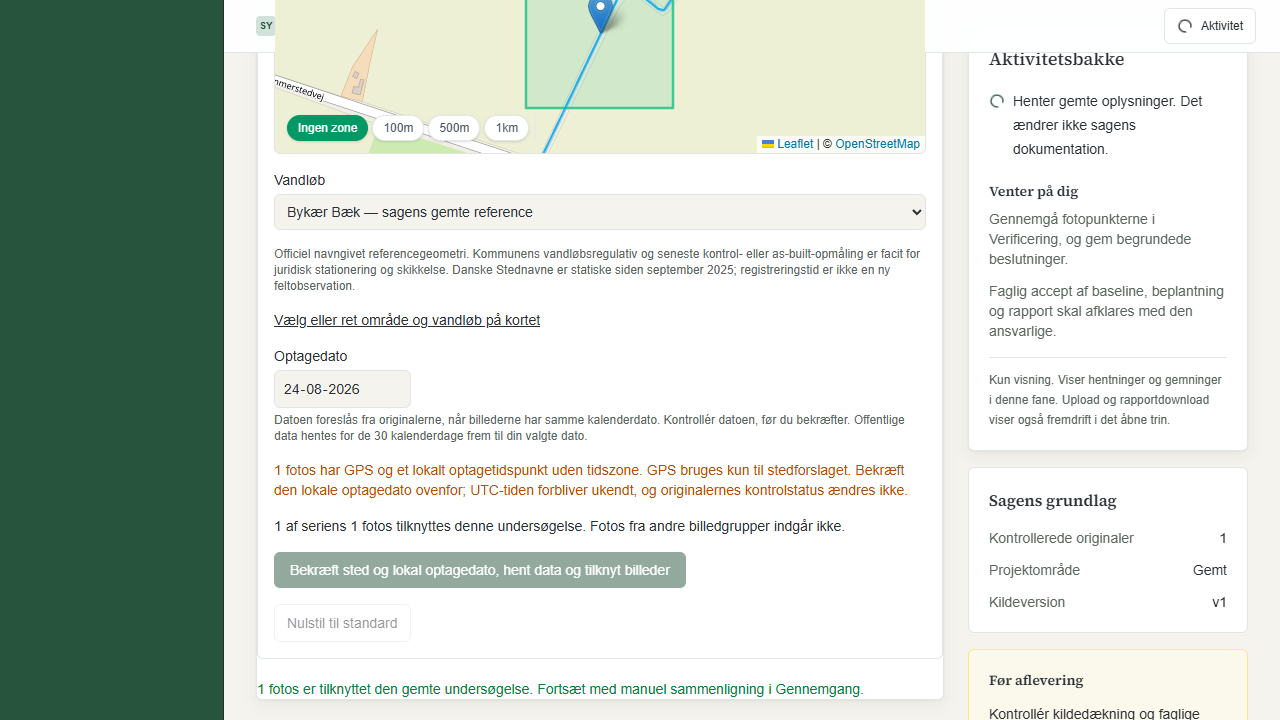
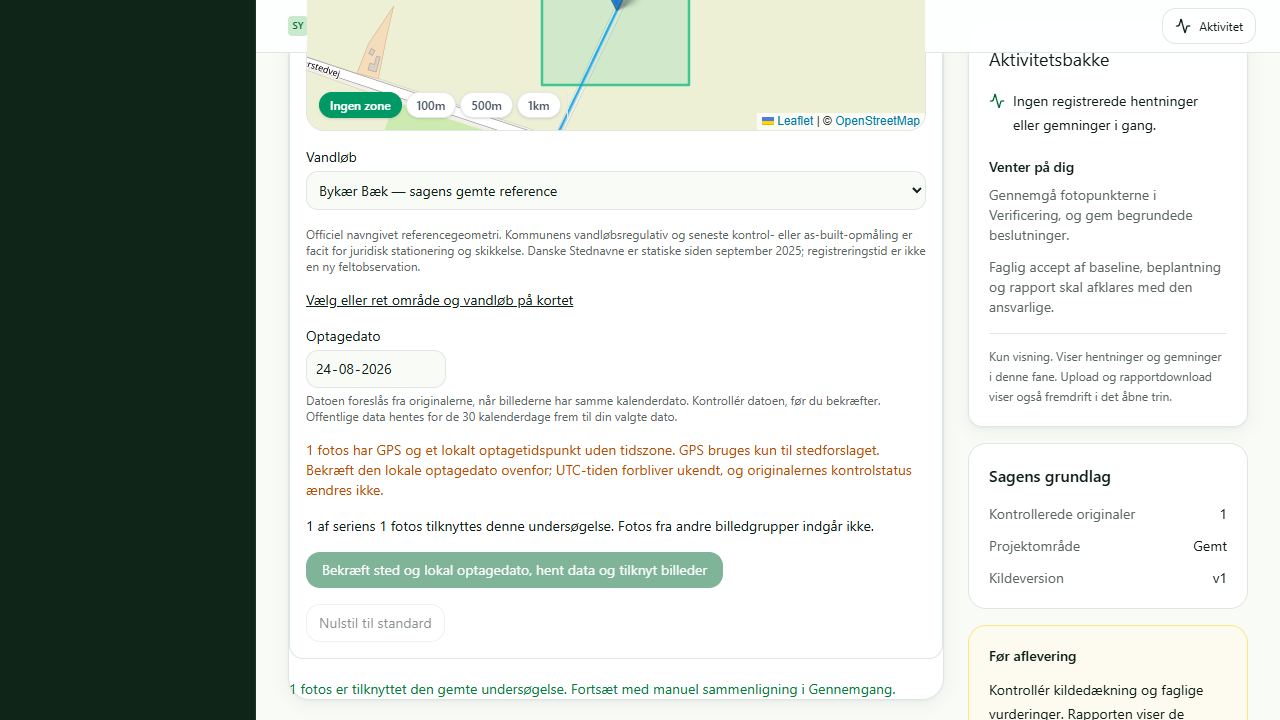
Record complete dashboard and atlas acceptance with release limits

diff --git a/e2e/haderslev-delivery.spec.ts b/e2e/haderslev-delivery.spec.ts
@@ -337,7 +337,10 @@ test("Start en ny sag: standarder, nulstilling, gemning og genåbning", async ({
     "Isoleret teknisk browserprøve. Ingen faglig godkendelse eller kommunal leverance.";
   await dialog.getByLabel("Beskrivelse", { exact: true }).fill(description);
   await dialog.getByRole("button", { name: "Opret projekt", exact: true }).click();
-  await expect(page.getByRole("navigation", { name: "Sagens seks trin" })).toBeVisible();
+  await expect(page.getByRole("button", { name: "Fotoatlas", exact: true })).toBeVisible();
+  await expect(page.getByRole("navigation", { name: "Hovedmenu" }).getByRole("link")).toHaveCount(
+    16,
+  );
   await expect(page.getByRole("heading", { name, exact: true })).toBeVisible();
   await page.reload();
   await expect(page.getByRole("heading", { name, exact: true })).toBeVisible();

diff --git a/docs/REPORT_ATLAS_AUDIT.md b/docs/REPORT_ATLAS_AUDIT.md
@@ -6,34 +6,52 @@ Jesper har bekræftet det tidligere fulde dashboard. Alle 16 hovedmenuhenvisning
 
 Drive-mappen er kontrolleret igen 27.10.2026. Den tidligere reference fra 26.10 er ikke den seneste udgave. Ingen af de private originaler, rapporter eller billeddatasæt lægges i Git.
 
-| Reference | Drive-ID | Senest kontrollerede revision |
-| --- | --- | --- |
-| Hovedrapport | 1BynA_7pBq91XG96qHuCJ1z8sV_1Wv070 | Ændret 27.10 kl. 21:33:56 UTC, 25.376.583 bytes, 26 sider. SHA-256 e0cddc667eb92166ea00a8193c49bc1645e84e94e5559387eb06cbfdfb9b7548. Forside og indholdsside visuelt gennemgået. |
-| Fuld rapport med 274 dronefotos | 18Rap_E6W4P6yL3_bXXZCXCrPjdCQ7Yqk | Ændret 27.10 kl. 12:14:57 UTC, 63.455.221 bytes. Tekst gennemgået. |
-| HTML-fotoatlas | 187z7-urI0CByr86OLX7GHVlreYzesBq0 | Ændret 27.10 kl. 12:15:39 UTC, 51.826.074 bytes. Hele datasættet og illustrationerne indlæst. |
-| Baseline-JSON | 1OBQCM6vc7FPXkWPSu8Dlmil7lMWB5MAw | Ændret 27.10 kl. 12:15:45 UTC, 280.139 bytes. Alle 274 poster sammenholdt med atlasset. |
+| Reference                       | Drive-ID                          | Senest kontrollerede revision                                                                                                                                                    |
+| ------------------------------- | --------------------------------- | -------------------------------------------------------------------------------------------------------------------------------------------------------------------------------- |
+| Hovedrapport                    | 1BynA_7pBq91XG96qHuCJ1z8sV_1Wv070 | Ændret 27.10 kl. 21:33:56 UTC, 25.376.583 bytes, 26 sider. SHA-256 e0cddc667eb92166ea00a8193c49bc1645e84e94e5559387eb06cbfdfb9b7548. Forside og indholdsside visuelt gennemgået. |
+| Fuld rapport med 274 dronefotos | 18Rap_E6W4P6yL3_bXXZCXCrPjdCQ7Yqk | Ændret 27.10 kl. 12:14:57 UTC, 63.455.221 bytes. Tekst gennemgået.                                                                                                               |
+| HTML-fotoatlas                  | 187z7-urI0CByr86OLX7GHVlreYzesBq0 | Ændret 27.10 kl. 12:15:39 UTC, 51.826.074 bytes. Hele datasættet og illustrationerne indlæst.                                                                                    |
+| Baseline-JSON                   | 1OBQCM6vc7FPXkWPSu8Dlmil7lMWB5MAw | Ændret 27.10 kl. 12:15:45 UTC, 280.139 bytes. Alle 274 poster sammenholdt med atlasset.                                                                                          |
 
 274 foto-ID'er, filnavne og registrerede originalchecksums stemmer mellem atlas og baseline. Alle 274 har indlejret illustration. Optagedatoerne er 24.08, 07.09 og 16.09.2026; vandløbstilknytningerne omfatter Bykær Bæk, Barsbøl Bæk, Ørsted Å og Uafklaret. Usikre poster flyttes ikke automatisk til et bestemt vandløb. Billedgruppe er ikke det samme som en geografisk delstrækning. Lokalt EXIF-klokkeslæt uden offset omregnes ikke til UTC.
 
 ## Genbrug og konkret ændring
 
-| Område | Eksisterende grundlag | Ændring og afgrænsning |
-| --- | --- | --- |
-| Organisation og projekt | Auth-valg, arbejdsplads, kommunale roller, projektskabeloner, projektgeometri og vandløbsversioner | Fuld navigation tilbage. Atlas er altid afgrænset af både organisation og projekt. Vandløbs-ID, billedgruppe, kameraposition og brugerregistreret delstrækning vises særskilt. En delstrækning uden geometri bliver ikke opfundet. |
-| Originaler og batch | Kanonisk dronebatch, EXIF/XMP-udtræk, SHA-256, TUS og private originaler | Samme metadataudtræk bruges til at bygge atlas fra eksisterende originalfotos. Uploadtid bruges ikke som optagetid. Visningskopier ændrer aldrig originalen. |
-| Fotoatlas | Mediegalleri, kort og private kildefiler | HTML/JSON-import, søgning, dato/vandløb/gruppefiltre, kortpunkter, zoom, sidenavigation og versionsgemt gennemgang. HTML fra en upload udføres aldrig; kun det validerede JSON-datasæt læses. |
-| Arter og vegetation | Observationer og faglig rapportgennemgang | Artsbud og brugerregistreret feltkontrol holdes adskilt. Bekræftelse kræver navn, metode/kontrolreference og artsnavn. Ingen økologisk klasse fra dronefotos. |
-| Drift og beplantning | Eksisterende arbejdsnoter, planteplan og rapportversioner | Stedreference, adgang, naturhensyn, arbejdsdato, arbejdsgrænse/kilde, udførelsesfotos, planteforslag, dokumenteret udførelse og opfølgning på det enkelte foto. Ingen beregnet maskinkapacitet eller fast antalsramme. |
-| Sammenligning | Eksisterende billedsammenligner | Rene billedpar hedder optagelse A/B. Dokumenteret før/efter kræver to forskellige originaler, optagedatoer på hver side af arbejdsdatoen, arbejdsreference og begrundelse for samme sted. Det er brugerregistreret dokumentation, ikke automatisk faglig accept. |
-| Rapport og eksport | Versions-RPC, rapporteditor, kildechecksums, kortkomposition, PDF/DOCX/CSV/GeoJSON | Atlas danner en rapportkladde med otte afsnit, fotobaseline, metode og kilder. PDF-adapteren henter atlas gennem rapportens autoriserede projektrække og kræver samme kildefilhash og originalreference som den gemte version. Kilderegisterets opdatering bevarer disse referencer. |
-| Delbart atlas | Eksisterende HTML-data genbruges | Selvstændig HTML-eksport med indlejrede illustrationer, søgning, filtre, zoom og positionsskitse. Kan deles som fil. Der aktiveres ikke et offentligt kundelink eller offentlig bucket. Modtageren får de valgte oplysninger i filen. |
-| Målinger og sensorer | indicator_measurements, device_measurements, datakilder og eksisterende målesider | Genbruges; ingen nye sensortal eller ændringer i beregningsmotorerne. Rapporten skriver udtrykkeligt, når vandstand, temperatur, ilt og pH ikke er målt. |
+| Område                  | Eksisterende grundlag                                                                              | Ændring og afgrænsning                                                                                                                                                                                                                                                                                                                                                                                     |
+| ----------------------- | -------------------------------------------------------------------------------------------------- | ---------------------------------------------------------------------------------------------------------------------------------------------------------------------------------------------------------------------------------------------------------------------------------------------------------------------------------------------------------------------------------------------------------- |
+| Organisation og projekt | Auth-valg, arbejdsplads, kommunale roller, projektskabeloner, projektgeometri og vandløbsversioner | Fuld navigation tilbage. Atlas er altid afgrænset af både organisation og projekt. Vandløbs-ID, billedgruppe, kameraposition og brugerregistreret delstrækning vises særskilt. En delstrækning uden geometri bliver ikke opfundet.                                                                                                                                                                         |
+| Originaler og batch     | Kanonisk dronebatch, EXIF/XMP-udtræk, SHA-256, TUS og private originaler                           | Samme metadataudtræk bruges til at bygge atlas fra eksisterende originalfotos. Uploadtid bruges ikke som optagetid. Visningskopier ændrer aldrig originalen.                                                                                                                                                                                                                                               |
+| Fotoatlas               | Mediegalleri, kort og private kildefiler                                                           | HTML/JSON-import, søgning, dato/vandløb/gruppefiltre, kortpunkter, zoom, sidenavigation og versionsgemt gennemgang. HTML fra en upload udføres aldrig; kun det validerede JSON-datasæt læses.                                                                                                                                                                                                              |
+| Arter og vegetation     | Observationer og faglig rapportgennemgang                                                          | Artsbud og brugerregistreret feltkontrol holdes adskilt. Bekræftelse kræver navn, metode/kontrolreference og artsnavn. Ingen økologisk klasse fra dronefotos.                                                                                                                                                                                                                                              |
+| Drift og beplantning    | Eksisterende arbejdsnoter, planteplan og rapportversioner                                          | Stedreference, adgang, naturhensyn, arbejdsdato, arbejdsgrænse/kilde, udførelsesfotos, planteforslag, dokumenteret udførelse og opfølgning på det enkelte foto. Ingen beregnet maskinkapacitet eller fast antalsramme.                                                                                                                                                                                     |
+| Sammenligning           | Eksisterende billedsammenligner                                                                    | Rene billedpar hedder optagelse A/B. Dokumenteret før/efter kræver to forskellige originaler, optagedatoer på hver side af arbejdsdatoen, arbejdsreference og begrundelse for samme sted. Det er brugerregistreret dokumentation, ikke automatisk faglig accept.                                                                                                                                           |
+| Rapport og eksport      | Versions-RPC, rapporteditor, kildechecksums, kortkomposition, PDF/DOCX/CSV/GeoJSON                 | Atlas danner en rapportkladde med otte afsnit, fotobaseline, metode og kilder. Rapporten bruger den eksisterende serverkontrollerede evidence-reference. Et ekstra felt i rapportens eksisterende JSON fastholder atlasfilens SHA-256 og valgte foto-ID'er. PDF-adapteren henter filen gennem rapportens autoriserede projektrække og kræver identiske bytes før rendering. Ingen databasekontrol svækkes. |
+| Delbart atlas           | Eksisterende HTML-data genbruges                                                                   | Selvstændig HTML-eksport med indlejrede illustrationer, søgning, filtre, zoom og positionsskitse. Kan deles som fil. Der aktiveres ikke et offentligt kundelink eller offentlig bucket. Modtageren får de valgte oplysninger i filen.                                                                                                                                                                      |
+| Målinger og sensorer    | indicator_measurements, device_measurements, datakilder og eksisterende målesider                  | Genbruges; ingen nye sensortal eller ændringer i beregningsmotorerne. Rapporten skriver udtrykkeligt, når vandstand, temperatur, ilt og pH ikke er målt.                                                                                                                                                                                                                                                   |
 
 ## Sikkerhed og afprøvning
 
-Ingen nye databasetabeller eller migrationer. Kildedatasæt gemmes i eksisterende private `evidence-files` med en `evidence_files`-reference. Gennemgange gemmes som nye versioner i eksisterende `project_workspace_entries`; en ændring omskriver ikke tidligere gennemgang. Forfatterens rolle og projektadgang håndhæves af eksisterende database- og storagepolicies. En læser får ingen import-, skrive- eller kladdeknapper.
+Ingen nye databasetabeller. Kildedatasæt gemmes i eksisterende private `evidence-files` med en `evidence_files`-reference. Gennemgange gemmes som nye versioner i eksisterende `project_workspace_entries`; en ændring omskriver ikke tidligere gennemgang. Forfatterens rolle og projektadgang håndhæves af eksisterende database- og storagepolicies. En læser får ingen import-, skrive- eller kladdeknapper.
 
-Nye og ændrede funktioner er **ikke verificeret** i hostet browser, før den konkrete acceptkvittering foreligger. Lokal test er ikke lig med kundens faglige godkendelse. Den samlede releasevurdering og de resterende driftskrav fremgår af `RELEASE_1_0.md`.
+Den idempotente migration `20261027223941_field_photo_provenance_insert.sql` er anvendt i staging. Den giver kun INSERT på den senere tilføjede metadata-kolonne, som manglede i de frosne kolonnerettigheder. RLS gælder stadig; læseren må ikke oprette en række. UPDATE på metadata og INSERT på storage_bucket, original_role og de særlige originalchecksums er fortsat spærret. Ingen produktionsmigration er kørt.
+
+Atlasreferencen har ingen serverregistreret originalkontrolsum. Importerede originalchecksums vises derfor i fotoregisteret som referencer og bruges ikke som bevis for hentede originaler. Rapporten kan eksporteres som kladde; den eksisterende godkendelseskontrol afviser et atlasdokument uden verificerede originalkilder og faglig gennemgang. Et feltfoto får fuldt originalnavn og beregnet bytekontrolsum i sine eksisterende metadata; den særlige checksumkolonne for uforanderlige droneoriginaler bruges fortsat kun sammen med deres kontrollerede lagersti.
+
+Den hostede appkilde 28a8320 består atlas-, original-, mobil- og læserprøverne. Alle 20 underfaner, 16 kategorier og 67 direkte routes er afprøvet igen. Rapportens 274 illustrationer og oversigtskort er med i den gennemgåede PDF på 73 sider. Kvitteringer: `release-1.0/photo-atlas-browser.json`, `photo-atlas-originals-browser.json`, `photo-atlas-pdf.json`, `workspace-browser.json` og `route-catalogue-browser.json`. Screenshots ligger i `screens/photo-atlas/` og `screens/release-1.0/`.
+
+| Opgavens punkt                 | Teknisk resultat                  | Afgrænsning                                                                                                                                                                                                                           |
+| ------------------------------ | --------------------------------- | ------------------------------------------------------------------------------------------------------------------------------------------------------------------------------------------------------------------------------------- |
+| 1 Audit og genbrug             | OK                                | Gældende kilder kontrolleret; eksisterende auth, roller, originalupload, EXIF, kort, arbejdsnoter og rapportarkiv genbrugt.                                                                                                           |
+| 2 Onboarding                   | OK                                | Ny sag, valgfri felter, nulstilling, gemning og genåbning afprøvet i browser med fuldt dashboard. Kommunens faktiske brugere kræver adresser og SMTP.                                                                                 |
+| 3 Fotos og atlas               | OK                                | 274 importerede poster, private kildefiler, søgning/filtre, zoom, originalreferencer, noter og originalfoto til atlas afprøvet. Kamera-GPS er ikke motivplacering.                                                                    |
+| 4 Arter og vegetation          | OK for registrering               | Artsbud og feltkontrol adskilt; udokumenteret bekræftelse afvises. Faktisk faglig feltkontrol er **ikke verificeret**.                                                                                                                |
+| 5 Adgang, drift og beplantning | OK for registrering               | Noter og forslag gemmes og følger eksporten. Faktiske arbejdsgrænser, udført plantning og tilladelser er **ikke verificeret**.                                                                                                        |
+| 6 Tidslig sammenligning        | OK for registrering               | Reelle optagedatoer og billedvalg; to fotos alene giver ingen før-/efterpåstand. En faktisk dokumenteret indsats mellem optagelserne er **ikke verificeret**.                                                                         |
+| 7 Rapport og interaktivt atlas | OK som kladde                     | 73-siders PDF, selvstændigt HTML-atlas og JSON. Fire rapporttyper og PDF/DOCX/CSV/GeoJSON genafprøvet. Fagligt godkendt kunderapport er **ikke verificeret**.                                                                         |
+| 8 Senere målinger              | Eksisterende model genbrugt       | Ingen opfundne sensorværdier. Fysisk vandstands-, temperatur-, ilt- eller pH-feed til kundesagen er **ikke verificeret**.                                                                                                             |
+| 9 Samlet prøve                 | OK for seneste tekniske gennemløb | Komplet original → offentlige data → manuel gennemgang → baseline → beplantningsskitse → PDF/ZIP består. Første parallelle gennemløb fejlede; genoptagelse og nyt forløb bestod. Årsagen og driftsstabilitet er **ikke verificeret**. |
+
+Den samlede releasevurdering og de resterende driftskrav fremgår af `RELEASE_1_0.md`. Testdata er tydeligt mærkede tekniske sager; der er ikke opfundet nye kundedata eller automatisk faglig accept.
 
 ## Afventer dokumentation eller aftale
 

diff --git a/docs/RELEASE_1_0.md b/docs/RELEASE_1_0.md
@@ -6,13 +6,19 @@ Ingen push/merge til main, produktionsmigration eller produktionsudgivelse er ud
 
 ## Version og bevisgrænse
 
-[Testapp](https://gofreyra-p0-staging.gofreyra-jesri-staging.workers.dev): Worker 0896f4ff-d130-495c-bafc-efef2fa3b8cd, appkilde a99c322542263b0e12bc37f9bfc6de64f8b3addb. Senere commits ændrer prøver, driftsscripts og dokumentation; produktets appkode er uændret. [Deploymentkvittering](release-1.0/deployment.json).
+[Testapp](https://gofreyra-p0-staging.gofreyra-jesri-staging.workers.dev): Worker c9cadbcc-750f-4b70-a092-2bcc09d661e9, appkilde 28a832062bd355dd82da151561c49cd8f0db3d93. Det fulde dashboard er gendannet efter Jespers bekræftelse. Fotoatlas og rapportflow er udbygget med de gældende Drive-referencer. [Deploymentkvittering](release-1.0/deployment.json), [audit og bevisgrænser](REPORT_ATLAS_AUDIT.md).
 
 Kun stagingdatabasen xdvqdzdpyceojbdknofi er ændret. Produktion ikrmcetjutqcjtwfhzfv er ikke ændret. Produktions-SMTP og migrationsledger er **ikke verificeret** med den tilgængelige konto.
 
-[Grøn CI](https://github.com/JESRI-C/freyra-hub/actions/runs/40466400151), commit 77aed71dbd51471bd33e523ae01d2f7cc7f0c0b7: **2.892 tests i 198 filer, 814 PostgreSQL-kontroller i 12 filer og 29 samtidighedsscenarier**; typecheck, lint og build består. Lint: 0 fejl, 24 eksisterende advarsler. [Kvittering](release-1.0/ci-summary.json).
+[Grøn CI](https://github.com/JESRI-C/freyra-hub/actions/runs/40596816699), appkilde 28a832062bd355dd82da151561c49cd8f0db3d93: **2.918 tests i 199 filer, 822 PostgreSQL-kontroller i 13 filer og 29 samtidighedsscenarier**; typecheck, lint og build består. Lint: 0 fejl, 24 eksisterende advarsler. Databasedump er gendannet til separat disponibel database. [Kvittering](release-1.0/ci-summary.json).
 
-Browserprøverne bruger originale fotobytes og offentlige kilder i tydeligt mærkede tekniske testsager. De erstatter hverken kundens sag eller faglig accept. [Gældende Drive-reference](https://drive.google.com/file/d/1BynA_7pBq91XG96qHuCJ1z8sV_1Wv070/view): rapporten fra 26.10, ændret 26.10.2026 kl. 20:14 UTC, 17.766.312 bytes. Ingen antalsramme for træer er opfundet.
+Browserprøverne bruger originale fotobytes og offentlige kilder i tydeligt mærkede tekniske testsager. De erstatter hverken kundens sag eller faglig accept. [Gældende Drive-reference](https://drive.google.com/file/d/1BynA_7pBq91XG96qHuCJ1z8sV_1Wv070/view): filen er ændret 27.10.2026 kl. 21:33:56 UTC, 25.376.583 bytes, 26 sider. Den tidligere revision fra 26.10 er historisk. Atlas og baseline fra 27.10 indeholder 274 ens foto-ID'er, filnavne og registrerede originalchecksums. Optagelsernes datoer er august/september; en ny filrevision er ikke en ny optagelse. Ingen antalsramme for træer er opfundet.
+
+Den nye atlasprøve består i browser: import/genåbning, søgning og filtre, zoom, afvist artsbekræftelse uden dokumentation, versionsgemte noter, adskilte projekter, HTML/JSON/PDF, 390-pixels mobilvisning og virkelig læseradgang. Læserens notat-, kildefil- og metadataindsættelser afvises af RLS. Originalfoto til atlas består med identisk SHA-256, filnavn, EXIF-dato og kamera-GPS. Den eksporterede PDF har 73 sider med alle 274 illustrationer og ét oversigtskort; forside, metode, kort samt første og sidste fotosider er visuelt gennemgået. [Atlas](release-1.0/photo-atlas-browser.json), [original](release-1.0/photo-atlas-originals-browser.json), [PDF](release-1.0/photo-atlas-pdf.json), [screenshots](screens/photo-atlas/).
+
+Atlasrapporter er kladder: importerede originalchecksums er kildehenvisninger. De bliver ikke til verificerede originalkilder eller faglig accept ved importen. Deling sker med eksporteret HTML-fil; intet offentligt kundelink eller offentlig bucket er aktiveret.
+
+Den første gentagelse af det komplette datatrin fejlede under parallel browserafprøvning. Genoptagelse med de bevarede originaler lykkedes; derefter bestod et nyt komplet forløb på en ny testsag på 49 sekunder og opret/genåbn sag på 9 sekunder. Årsagen til den første fejl er **ikke verificeret**. Fejlen skjules ikke af genkørslen: før produktion kræves en kontrolleret gentagelses-/belastningsprøve med separat fejllogning. [Forløb og bevisgrænse](release-1.0/complete-flow-browser.json).
 
 ## Kontrol a–j
 
@@ -42,6 +48,11 @@ OK gælder den beskrevne stagingprøve eller dokumentation, ikke automatisk prod
 | f901af1, 50a036e          | Virkelig viewer/API/storage-prøve og regression for forbudt offlinefallback.                                                                             |
 | 67f10cd                   | Sammenligning af 44 motorfiler/funktioner med fallback.                                                                                                  |
 | 1c678fe, 8e35bea, 77aed71 | Leveret/deduplikeret alarm, ren læserlogin og fuld isoleret databasegendannelse med systemfunktioner.                                                    |
+| 9c68f54, a53a1c2          | Fuldt tidligere dashboard, direkte adgang til alle kategorier og ingen opfundet kvalitetsprocent.                                                        |
+| 238a065, d4efd62          | Projektafgrænset fotoatlas, genbrug af EXIF/TUS/kort, faglige gennemgange og sikker selvstændig HTML-eksport.                                            |
+| a20b908, 50e53c3          | Bevar feltfotoets originalnavn og bytekontrolsum uden at bruge droneoriginalernes beskyttede identitetskolonner.                                         |
+| 34aacf9, 479d578          | Serverkontrolleret evidence-reference, fast atlasfilhash og foto-ID'er pr. rapportversion; alle faglige oplysninger i atlasfilen.                        |
+| 28a8320                   | Kompakt fotobilag med frosne fototekster; snæver idempotent metadata-INSERT-rettelse og ægte læserafvisning.                                             |
 
 44 beskyttede motorfiler/funktioner er identiske med fallback: baseline, plante-, natur-, satellit-, monitorerings- og rapportmotor samt to beregningsfunktioner for byggeri. Kun linjeskift normaliseres. [Hashbevis](release-1.0/engine-preservation.json). Præsentationen viser manglende grundlag frem for opfundne resultater.
 
@@ -101,9 +112,9 @@ release-operations.yml er afprøvet med faktisk alarmlevering/deduplikering. Git
 
 ## Go-live-plan til Jespers godkendelse
 
-1. Luk c, f, g og j: adresser, verificeret SMTP, navngiven faglig godkender, aktiv overvågning/vagt og komplet hostet gendannelse. Foretag ny GO/NO-GO.
+1. Luk c, f, g og j: adresser, verificeret SMTP, navngiven faglig godkender, aktiv overvågning/vagt og komplet hostet gendannelse. Afklar den første fejl i datatrinnet med gentagelses-/belastningsprøve. Foretag ny GO/NO-GO.
 2. Fastlås konkret release-SHA og beviserne. Bevar 6257819/fallback-grenen urørt. Draft-PR'en merges ikke som del af prøven.
-3. Læs produktionens faktiske migrationsledger/bindings og afstem version/checksum. PR 18-filer: 20261026150933_bykaer_reports, 20261026150952_watercourse_versions, 20261026151127_drone_originals_and_jobs, 20261026203728_project_workspace_entries, 20261026204749_workspace_audit_uuid_fix. Sikkerhedsrettelse: 20261027055753_release_1_0_reader_boundaries. Antal manglende produktionsmigrationer er **ikke verificeret**. Dry-run/genafspilning sker på kopi af den faktiske database.
+3. Læs produktionens faktiske migrationsledger/bindings og afstem version/checksum. PR 18-filer: 20261026150933_bykaer_reports, 20261026150952_watercourse_versions, 20261026151127_drone_originals_and_jobs, 20261026203728_project_workspace_entries, 20261026204749_workspace_audit_uuid_fix. Sikkerhedsrettelse: 20261027055753_release_1_0_reader_boundaries. Atlasarbejdet tilføjer 20261027223941_field_photo_provenance_insert: kun INSERT(metadata) på eksisterende project_media, under uændret RLS; ingen rettighed til de beskyttede originalfelter. Antal manglende produktionsmigrationer er **ikke verificeret**. Dry-run/genafspilning sker på kopi af den faktiske database.
 4. Tag verificeret komplet backup, mål gendannelse og gennemfør rollbackgeneralprøve. Registrér tidligere produktions-Worker/bindings uden hemmeligheder i repo.
 5. **Jesper skriver ja til konkret SHA, migrationsliste, målprojekt, deploymål, brugeradresser og rollback.** Ingen push/merge til main eller db push mod ikrmcetjutqcjtwfhzfv før dette ja. Main-merge kan udløse produktionsmigrationer.
 6. Efter godkendelse: afstemte idempotente migrationer og stram RLS før kommunale brugere; deploy tilsvarende godkendt produktionsbuild med korrekte mål/bevarede serverhemmeligheder. Kontroller bundle/bindings. Ingen demoflag eller seed-script.
